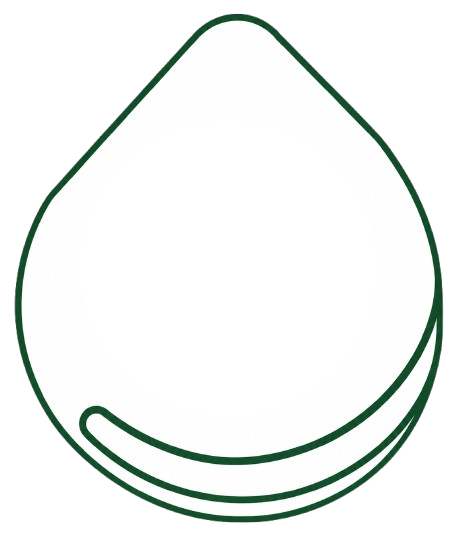
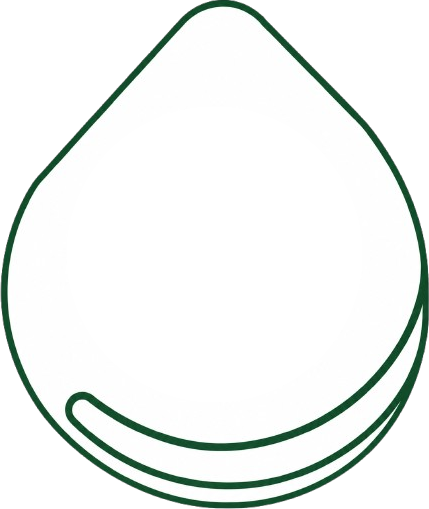
Quitar círculo blanco de atrás: el marco llena todo con la comida dentro

Changed region(s): [[0.0, 0.0, 1.0, 1.0]]

diff --git a/app/globals.css b/app/globals.css
@@ -450,14 +450,10 @@ header.top {
   position: relative;
   width: 58px;
   height: 58px;
-  border-radius: 50%;
-  background: var(--surface);
   display: flex;
   align-items: center;
   justify-content: center;
   overflow: hidden;
-  box-shadow: 0 4px 12px rgba(18, 56, 37, 0.1);
-  border: 2px solid transparent;
   transition: all 0.25s cubic-bezier(0.34, 1.56, 0.64, 1);
   font-size: 24px;
 }
@@ -479,10 +475,8 @@ header.top {
   pointer-events: none;
 }
 .cat-item.active .cat-circle {
-  border-color: var(--green);
-  background: linear-gradient(160deg, #fff, var(--green-soft));
   transform: translateY(-3px);
-  box-shadow: 0 8px 16px rgba(29, 90, 58, 0.24);
+  filter: drop-shadow(0 8px 16px rgba(29, 90, 58, 0.3));
 }
 .cat-item:hover .cat-circle {
   transform: translateY(-3px);
